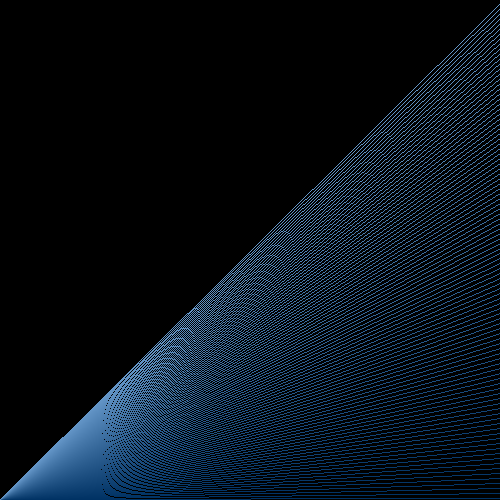
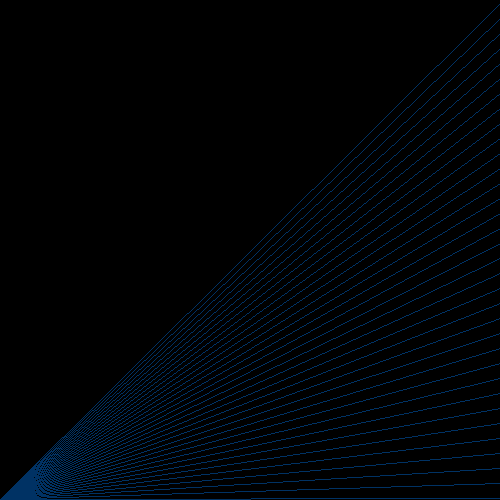
stuff

Changed region(s): [[0.0, 0.0, 1.0, 1.0]]

diff --git a/main.c b/main.c
@@ -23,15 +23,15 @@ int main() {
   //int j = 1;
   while (m<500){
   draw_line( 0, 0, XRES, m, s, c);
-  m += 5;
-c.red += 10;
-c.green++;
-c.blue += 50;
+  m += 15;
   }
  
+c.red = 20;
+c.green = 100;
+c.blue = 0;
  int j = 1;
 while (j<500){
-draw_line(j, 0, XRES, YRES,s,c);
+draw_line(0, 0, j, YRES,s,c);
 j+=20;
 }
   
